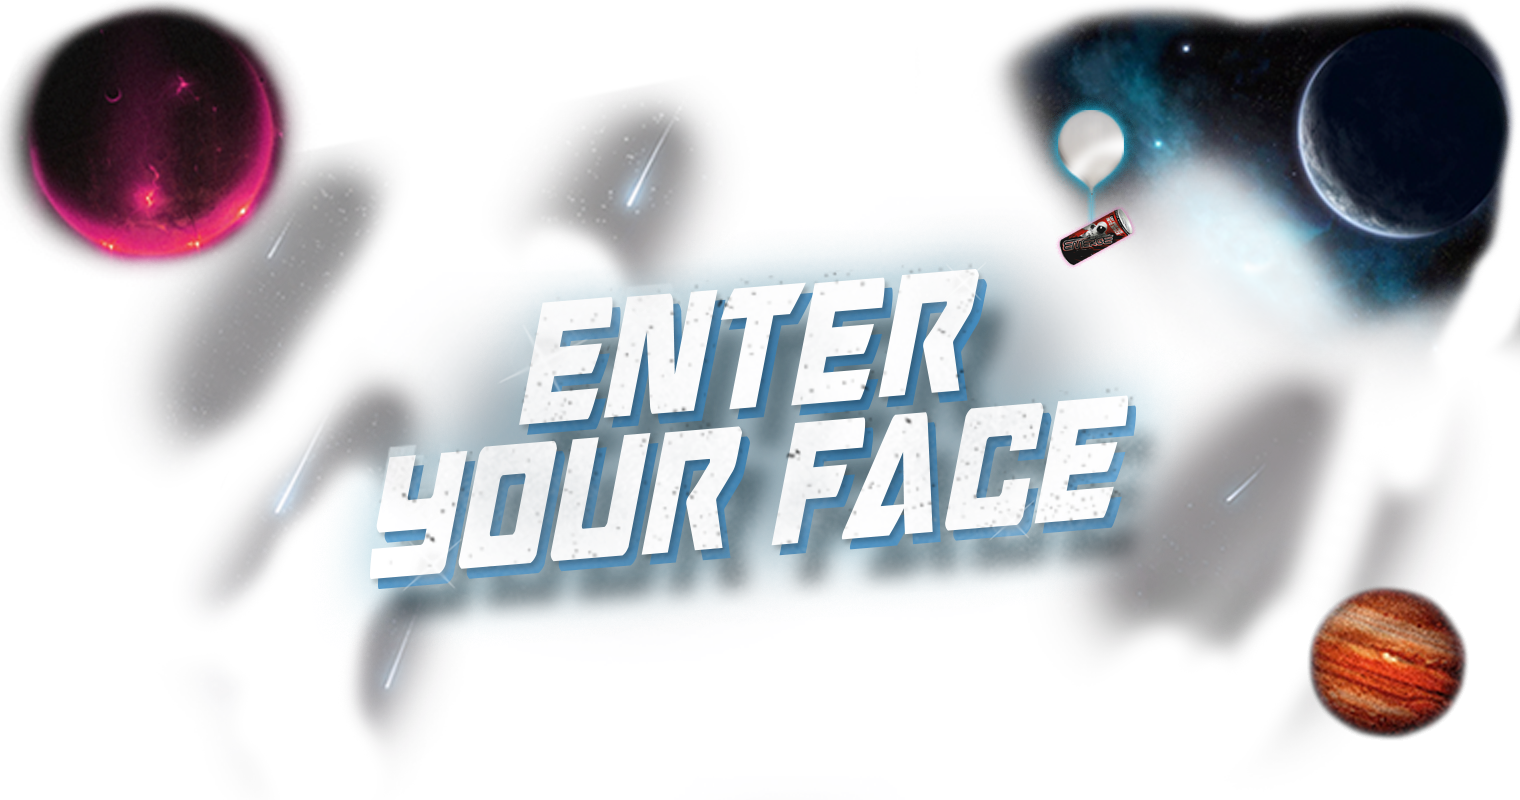
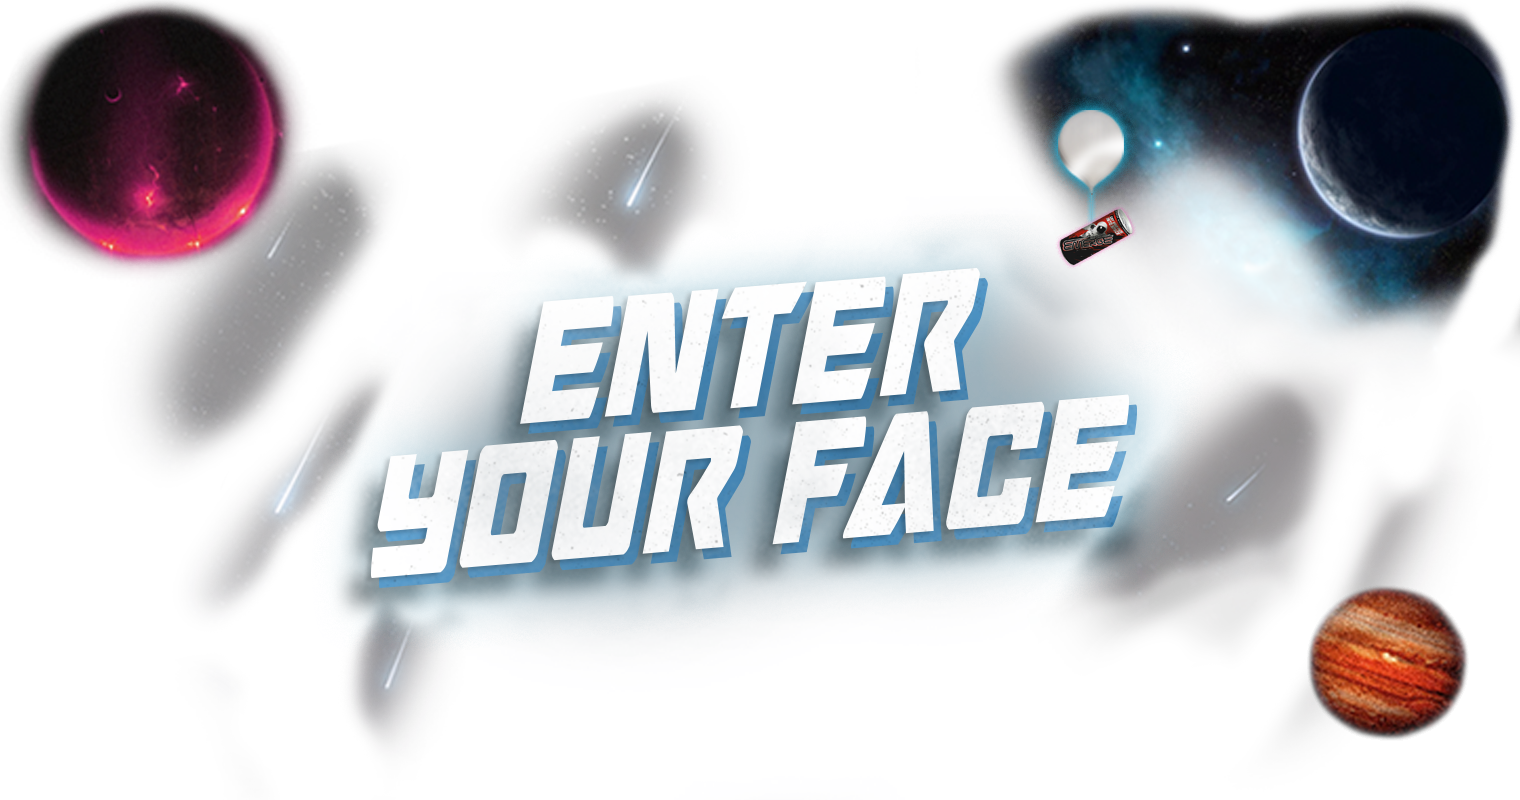
added elements such as balloon and planets behind the form entries

diff --git a/css/main.css b/css/main.css
@@ -324,11 +324,13 @@ main {
   font-size: 2.3em !important;
 }
 button.space {
-    background: url('../img/button_bckground_patern.png?20140307') repeat 0 0 transparent;
+    background: url("../img/button_bckground_patern.png?20140307") repeat scroll 0 0 rgba(0, 0, 0, 0);
     border: 4px solid #FFFFFF;
     color: #FFFFFF;
-    font-size: 1.5em;
-    height: 68px;
+    font-size: 2.2em;
+    height: 65px;
+    line-height: 60px;
+    text-shadow: 1px 2px 6px #000000;
     text-transform: uppercase;
     width: auto;
     -webkit-transition: all 0.3s;
@@ -353,10 +355,10 @@ button.space:hover {
     margin-bottom: 10px;
 }
 .footer-logo {
-    background: url("../img/footerlogo.png") no-repeat scroll 0 0 rgba(0, 0, 0, 0);
-    height: 182px;
-    width: 140px;
-    margin: 0 auto;   
+  background: url("../img/footerlogo.png") no-repeat scroll 0 0 rgba(0, 0, 0, 0);
+  height: 150px;
+  margin: 0 auto;
+  width: 140px; 
 }
 .row-footer span.hashtag {
     color: #FFF;
@@ -417,6 +419,9 @@ button.space:hover {
 .row-entries button.space {
     width: 100%;
 }
+.row-header-entries {
+  height: 390px;
+}
 .row-header-entries .astronauts .lady {
     left: -30px;
     position: absolute;
@@ -446,6 +451,7 @@ button.space:hover {
 .terms-and-conditions {
     width: 530px;
     margin: 0 auto;
+    font-size: arial;
 }
 .row-enter-your-face .photo {
     border: 4px solid #FFFFFF;
@@ -457,10 +463,61 @@ button.space:hover {
 .row-enter-your-face .myForm {
     margin: 0 auto;
     width: 535px;
+    position: relative;
+}
+.row-enter-your-face > div {
+  position: relative;
+  z-index: 2;
+}
+.row-enter-your-face > .bg {
+  height: 100%;
+  left: 0;
+  position: absolute;
+  top: 0;
+  width: 100%;
+  z-index: 1;
+}
+.row-enter-your-face .bg .elem-a {
+  background: url("../img/countdown_background.png") no-repeat scroll -50px 0 rgba(0, 0, 0, 0);
+  height: 150px;
+  left: -50px;
+  position: absolute;
+  top: 110px;
+  width: 150px;
+}
+.row-enter-your-face .bg .elem-b {
+  background: url("../img/Ballon_float2.png") no-repeat scroll 0 0 rgba(0, 0, 0, 0);
+  height: 150px;
+  left: 0;
+  position: absolute;
+  top: 360px;
+  width: 150px;
+}
+.row-enter-your-face .bg .elem-c {
+  background: url("../img/Ballon_float1.png") no-repeat scroll 0 0 rgba(0, 0, 0, 0);
+  height: 150px;
+  left: 665px;
+  position: absolute;
+  top: 150px;
+  width: 150px;
+}
+.row-enter-your-face .bg .elem-d {
+  background: url("../img/cat-foo.png") no-repeat scroll -50px -45px rgba(0, 0, 0, 0);
+  height: 300px;
+  left: 615px;
+  position: absolute;
+  top: 540px;
+  transform: rotate(20deg);
+  -webkit-transform: rotate(20deg);
+  width: 250px;
 }
 .row-enter-your-face > div p {
     text-align: center;
     text-transform: uppercase;
+    font-size: 1.3em;
+}
+#txt-upload-photo {
+  margin: 0 0 45px 0;
 }
 .myForm > div {
     display: inline-block;
@@ -521,15 +578,21 @@ button.space:hover {
   height: auto;
   margin-right: 10px;
   position: relative;
-  top: 2px;
+  top: 3px;
+}
+.myForm input,
+.myForm textarea {
+  border-radius: 0px !important;
 }
 .myForm .row a {
   color: #FFF;
 }
 .myForm .text_agreement {
-    font-size: 15px;
-    padding-bottom: 15px;
-    text-align: left;
+  font-family: arial;
+  font-size: 0.8em;
+  letter-spacing: normal;
+  padding-bottom: 15px;
+  text-align: left;
 }
 .text_agreement.invalid {
   color: #EA342F;
@@ -575,15 +638,17 @@ button.your_face {
 .fb-like-wrp {
   display: block;
   line-height: 20px;
-  height: 20px;
+  height: 100px;
   margin: 0 auto;
   max-width: 500px;
+  text-align: center;
+  width: auto;
 }
 .fb-like-wrp div {
-  float: left;
+  margin-bottom: 8px;
 }
 .fb-like-wrp .txt {
-  padding-right: 10px;
+  font-family: arial;
 }
 /* datepicker */
 .myForm .col-b {
@@ -762,11 +827,12 @@ button.your_face {
   position: relative;
   top: -25px;
   right: -160px;
-  color: #555;
+  color: #aaa;
   font-size: 12px;
   background: transparent;
   text-align: right;
   width: 130px;
+  font-family: arial;
 }
 
 /* custom animations */

diff --git a/js/main.js b/js/main.js
@@ -35,6 +35,8 @@ angular.module("emerge_space", ['ui.router', 'jqform', 'ezfb', 'ngAnimate', 'myS
 
 				            if (rows.length == 1 && rows[0].uid == user_id) {
 
+				            	console.log("user connected true, fb like is true");
+
 								deferred.resolve({
 									connected: true,
 									status: true,
@@ -42,6 +44,8 @@ angular.module("emerge_space", ['ui.router', 'jqform', 'ezfb', 'ngAnimate', 'myS
 								});
 				            
 				            } else {
+
+				            	console.log("user connected true, fb like is false");
 
 								deferred.resolve({
 									connected: true,
@@ -56,6 +60,8 @@ angular.module("emerge_space", ['ui.router', 'jqform', 'ezfb', 'ngAnimate', 'myS
 					});
 
 			    } else {
+
+				    console.log("user connected false, fb like is false");
 
 					deferred.resolve({
 						connected: false,
@@ -301,19 +307,23 @@ angular.module("emerge_space", ['ui.router', 'jqform', 'ezfb', 'ngAnimate', 'myS
 
 					    if (rows.length == 1 && rows[0].uid == user_id) {
 
-							deferred.resolve({
+			            	console.log("user connected true, fb like is true");
+
+							$scope.fb_like = {
 								connected: true,
 								status: true,
 								data: fb_profile_data
-							});
+							};
 					    
 					    } else {
 
-							deferred.resolve({
+			            	console.log("user connected true, fb like is false");
+
+							$scope.fb_like = {
 								connected: true,
 								status: false,
 								data: false
-							});
+							};
 
 					    };
 
@@ -324,6 +334,8 @@ angular.module("emerge_space", ['ui.router', 'jqform', 'ezfb', 'ngAnimate', 'myS
 
 			} else {
 
+			    console.log("user connected false, fb like is false");
+
 				$scope.fb_like = {
 					connected: false,
 					status: false,
@@ -333,8 +345,6 @@ angular.module("emerge_space", ['ui.router', 'jqform', 'ezfb', 'ngAnimate', 'myS
 			}
 
 		}, {scope:'publish_actions,user_likes,email,user_birthday'});
-
-		$scope.fb_like = deferred.promise;
 
 	};
 

diff --git a/templates.php b/templates.php
@@ -18,9 +18,9 @@
 
         <div class="fb-like-wrp" ezfb-xfbml>
             
-            <div class="txt">To participate make sure you have liked Emerge on Facebook</div>
+            <div class="fb-like" data-href="https://www.facebook.com/emergestimulationdrink" data-width="auto" data-layout="button" data-action="like" data-show-faces="false" data-share="false"></div>
 
-            <div class="fb-like" data-href="https://www.facebook.com/emergestimulationdrink" data-width="100px" data-layout="button" data-action="like" data-show-faces="false" data-share="false"></div>
+            <div class="txt">To participate make sure you have liked Emerge on Facebook</div>
 
         </div>
 
@@ -28,7 +28,7 @@
 
     <div ng-if="fb_like.connected == true && fb_like.status == true && template_data.success_page == false && template_data.approval_process == false">
 
-        <p>upload a photo of yourself and tell us why you should go on the <br> mission of a lifetime or the chance to get your face into space.</p>
+        <p id="txt-upload-photo" class="text-shadow-light-blue">upload a photo of yourself and tell us why you should go on the <br> mission of a lifetime or the chance to get your face into space.</p>
         
         <form name="myForm" class="pure-form myForm" novalidate ng-controller="uploadPhotoCtrl" ng-submit="submit()" ng-class="{true: 'submitted'}[submitted]">
             <div class="col col-a">
@@ -79,7 +79,7 @@
 
                 <p class="text_agreement" ng-class="submitted == true && myForm.agreement.$error.required ? 'invalid' : ''"><input type="checkbox" name="agreement" ng-model="user.agreement" required> I agree to the <a href="/#/terms-and-conditions">T's and C's</a> and that I am over 16 years of age and a resident in the UK. </p>
             </div>
-            <button class="space your_face" ng-click="submitted=true">submit your face!</button>
+            <button class="space your_face font-gothic" ng-click="submitted=true">submit your face!</button>
         </form>
 
     </div>
@@ -141,6 +141,13 @@
 
         </div>
 
+    </div>
+
+    <div class="bg">
+        <div class="elems elem-a"></div>
+        <div class="elems elem-b"></div>
+        <div class="elems elem-c"></div>
+        <div class="elems elem-d"></div>
     </div>
 
 </div>
